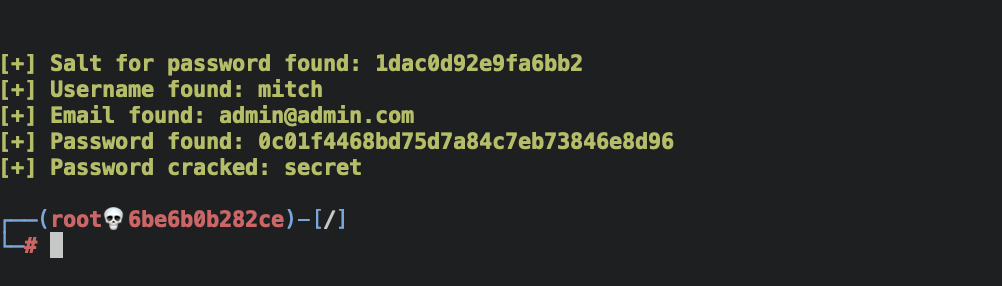
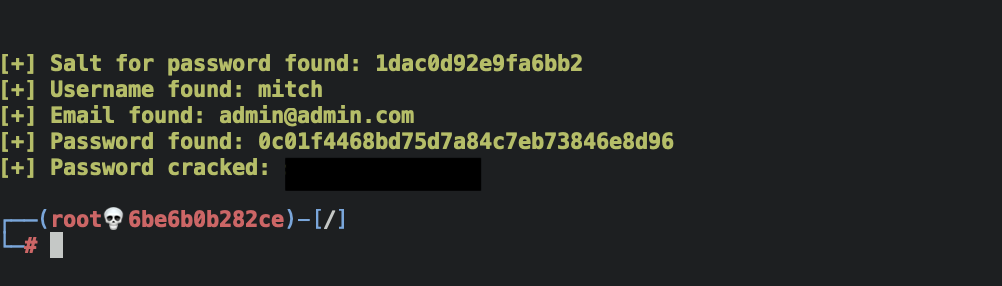
remove cracked passwords

Changed region(s): [[0.2784, 0.5315, 0.495, 0.6713]]

diff --git a/_site/index.html b/_site/index.html
@@ -48,7 +48,7 @@
       <li>
           <h2><a href="/SimpleCTF-WriteUp-TryHackMe">Simple CTF WriteUp TryHackMe</a></h2>
           <time datetime="2021-11-30T15:45:15+01:00">30 Nov 2021</time>
-          <p>Simple CTF is a beginner level room on TryHackMe. It has few questions that guide you in which steps have to be done. Here’s the walkthrough on solving that machine. Enumeration First, as always, I started enumerating the system. Here is the output of this nmap command: nmap -sCV &lt;ip-address&gt;...</p>
+          <p>Simple CTF is a beginner level room on TryHackMe. It has few questions that guide you in which steps have to be done. Here’s my walkthrough on solving that machine. Enumeration First, as always, I started enumerating the system. Here is the output of this nmap command: nmap -sCV &lt;ip-address&gt;...</p>
       </li>
     
       <li>

diff --git a/_posts/2021-11-30-SimpleCTF-WriteUp-TryHackMe.md b/_posts/2021-11-30-SimpleCTF-WriteUp-TryHackMe.md
@@ -5,7 +5,7 @@ date: 2021-11-30 15:45:15 CET
 categories: jekyll update
 ---
 
-Simple CTF is a beginner level room on TryHackMe. It has few questions that
+Simple CTF is a beginner level room on [TryHackMe](https://tryhackme.com). It has few questions that
 guide you in which steps have to be done. Here's my walkthrough on solving that
 machine.
 
@@ -74,7 +74,7 @@ use the `best110.txt`, which would make the process shorter.
 At this point I could answer the next two questions:
 
 - What's the password?
-> Answer: `secret`
+> Answer: `******`
 - Where can you login with the details obtained?
 > Answer: `ssh`
 
